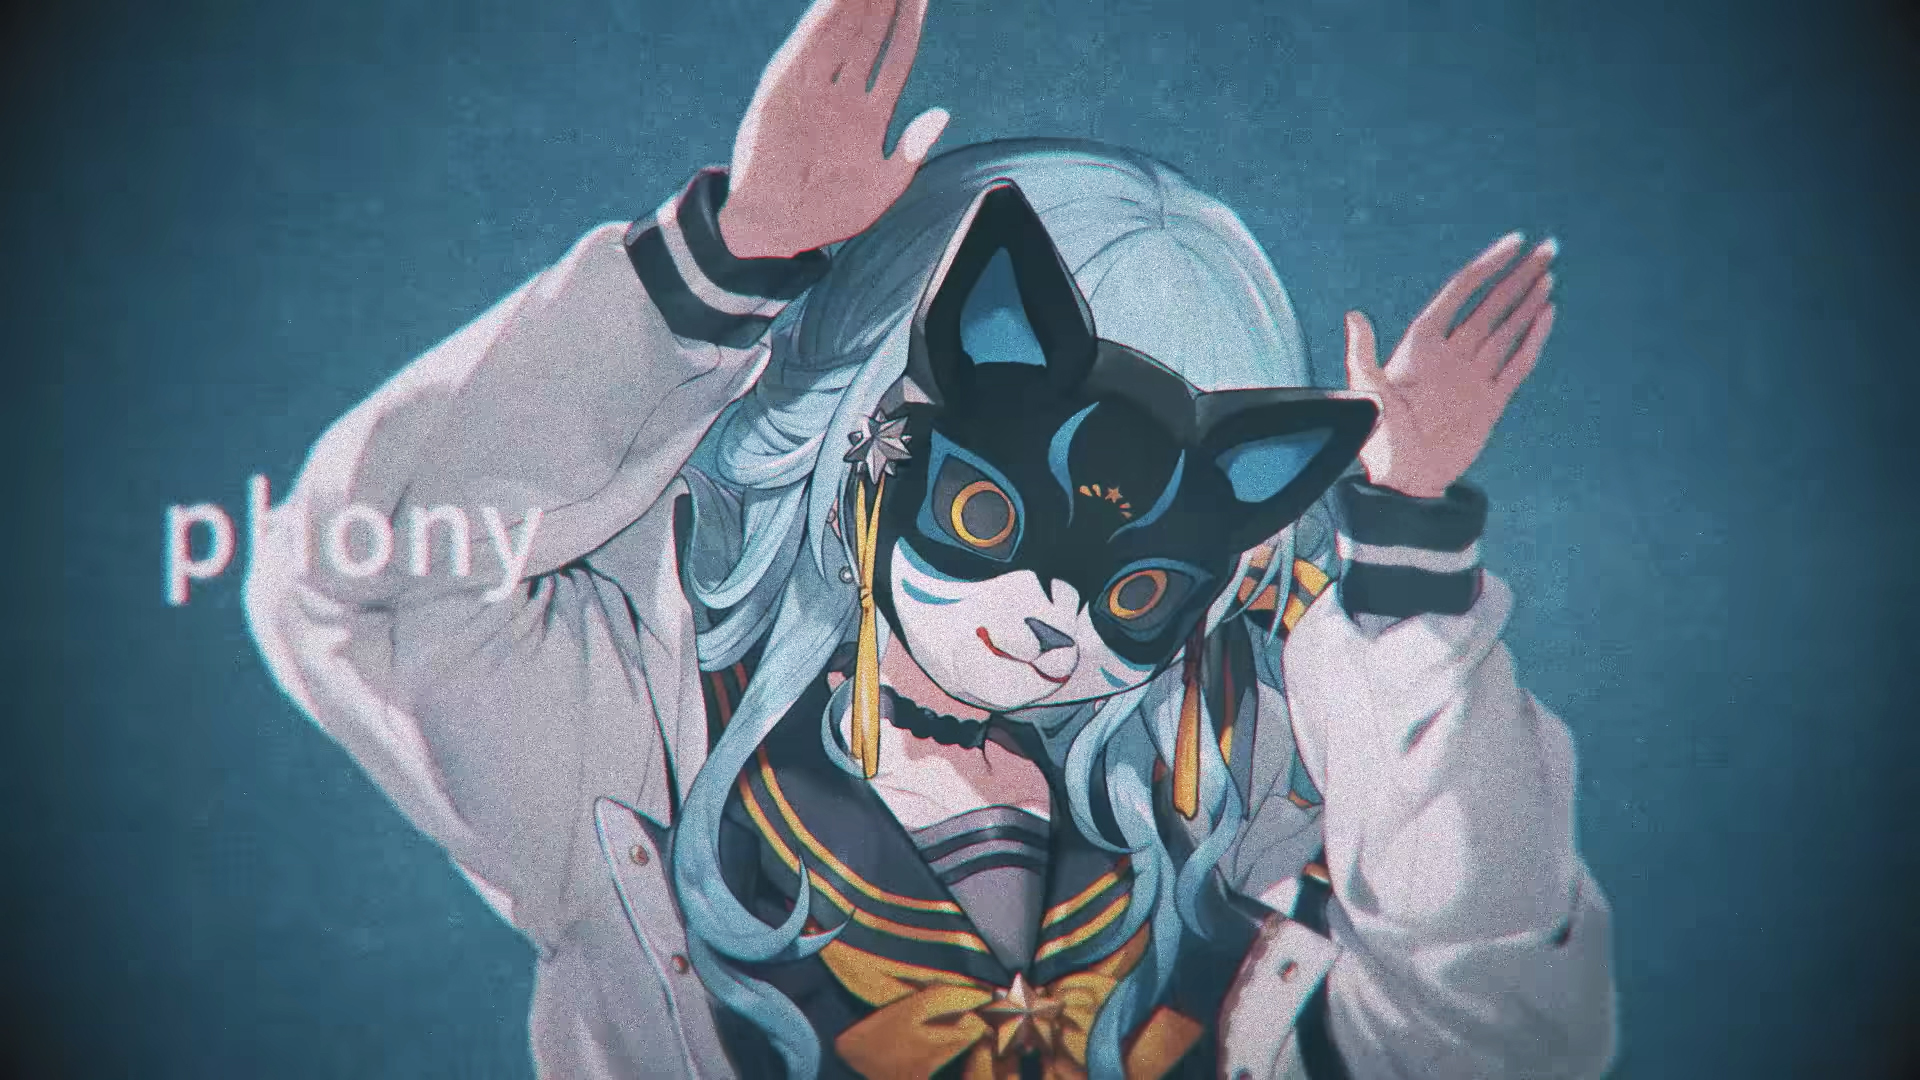
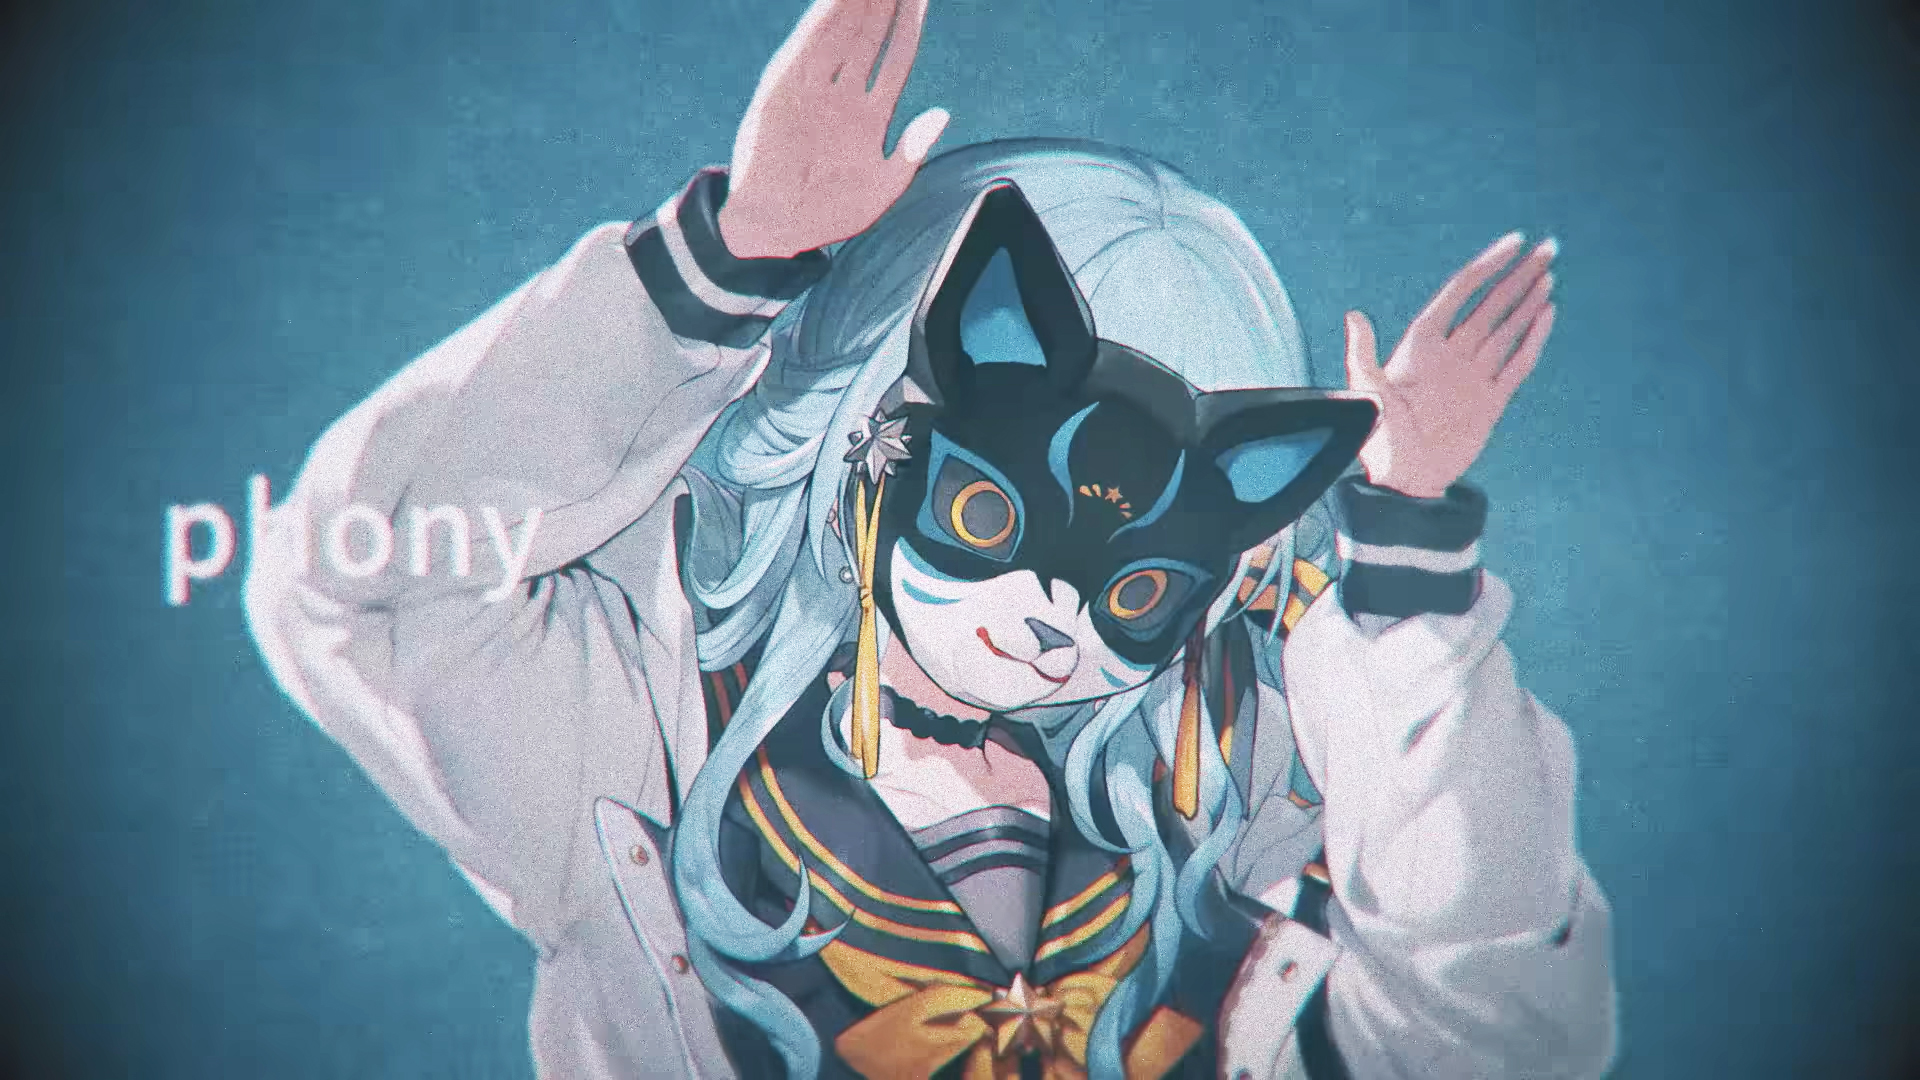
update

diff --git a/assets/js/component/ui-playlist/bgContainer.js b/assets/js/component/ui-playlist/bgContainer.js
@@ -12,7 +12,7 @@ const setBg = (style, key) => {
         style.container.filter = 'none'
     }
     else {
-        style.container.filter = 'brightness(1.125)'
+        style.container.filter = 'brightness(1.15)'
     }
 }
 
@@ -43,10 +43,10 @@ export default {
         const items = ref(Array.from(Songs, (item, key) => {
             const {bgSrc, isDefault} = item
 
-            const overlay = isDefault ? 'transparent' : 'rgba(0, 0, 0, 0.6)'
+            const overlay = isDefault ? 'transparent' : 'rgba(0, 0, 0, 1)'
 
             const style = {
-                background: `linear-gradient(to right, ${overlay}, transparent), url('${bgSrc}') no-repeat center center / cover`,
+                background: `linear-gradient(to right, ${overlay}, 30%, transparent), url('${bgSrc}') no-repeat center center / cover`,
             }
 
             return {key, style}

diff --git a/assets/js/component/ui-playlist/navItems.js b/assets/js/component/ui-playlist/navItems.js
@@ -30,9 +30,10 @@ const updatePosition = ({deg, radius1, radius2}) => {
 }
 
 const getOpacity = ({len, current, key}) => {
-    const o = 0.6 / len
+    let max = Songs[current].isDefault ? 0.6 : 0.7
+    const o = max / len
     const sub = Math.abs(current - key)
-    const opacity = 0.6 - o * sub
+    const opacity = max - o * sub
     return opacity
 }
 

diff --git a/assets/css/playlist.css b/assets/css/playlist.css
@@ -23,7 +23,7 @@
     position: absolute;
     width: 100%;
     height: auto;
-    transition: transform 0.6s, filter 0.6s;
+    transition: transform 0.8s, filter 0.8s;
 }
 .playlist-bg-container div{
     position: relative;
